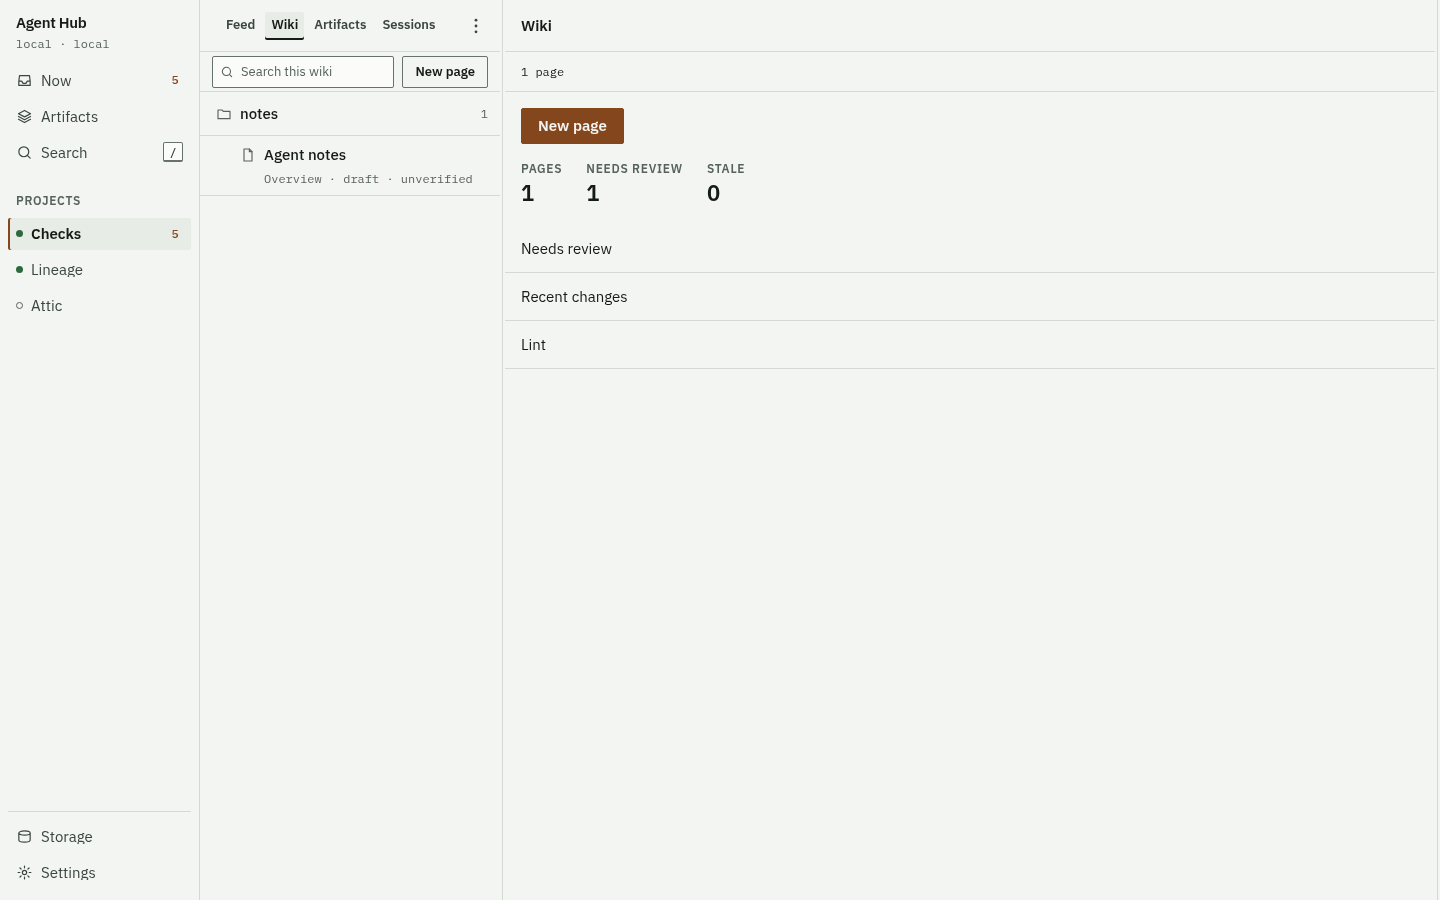
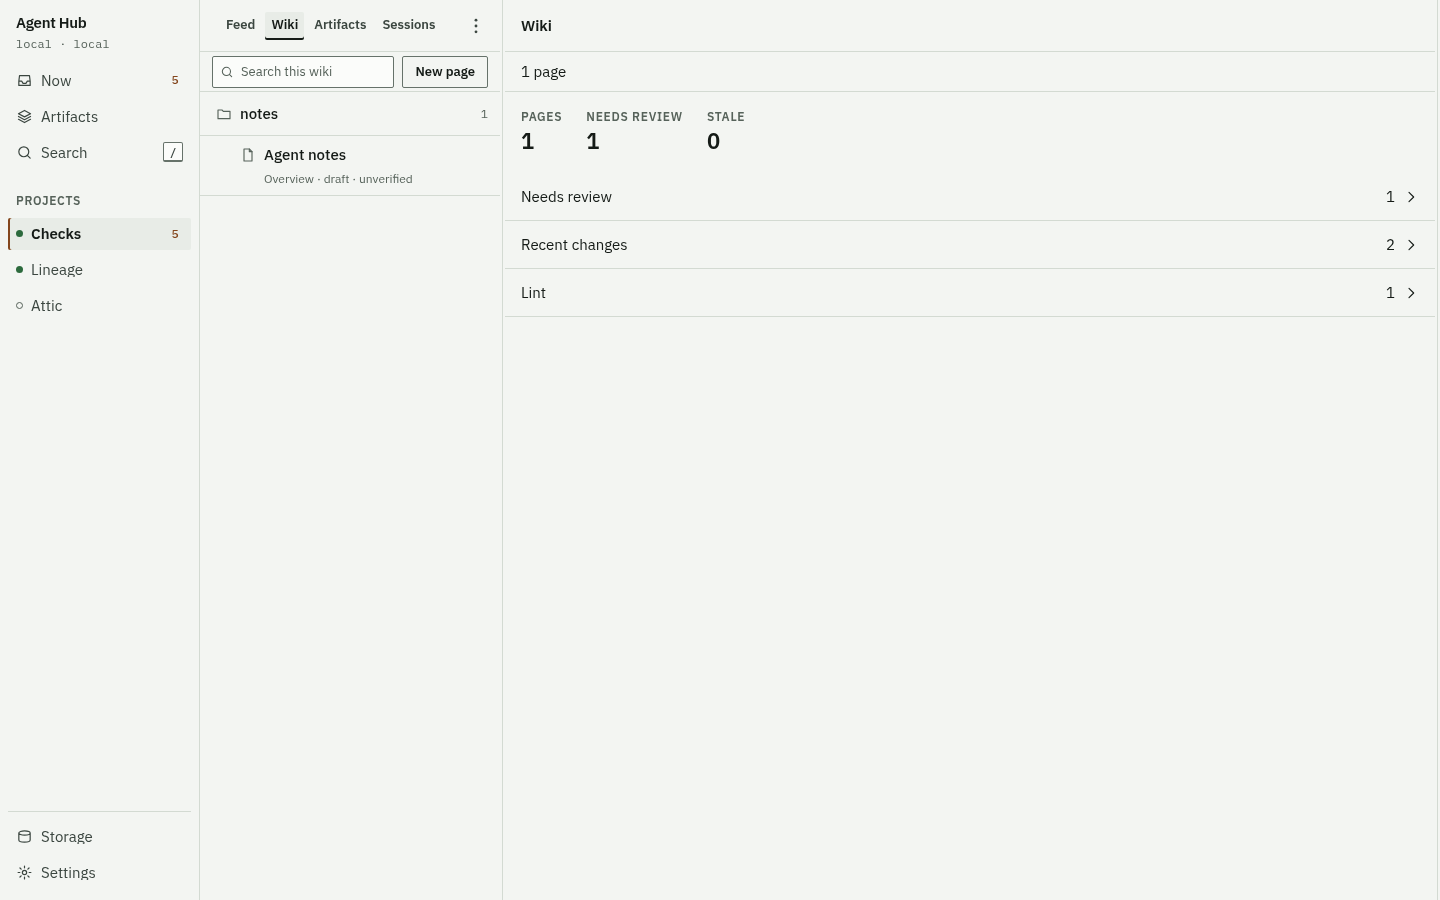
fix(web): make the wiki's empty state, header and editor honest
The empty wiki told agents to run a command that does not exist; it now
shows and copies the real kb put line for the project. On a phone the
Review and Edit verbs crowded the page title down to a fragment, so
they move to the control row, which is the tools row there. The home no
longer repeats the New page control the index already carries, and its
rows show a count and a chevron, or give way to a short note when the
wiki has no pages.

The editor is titled by the page rather than its file name, an emptied
buffer shows a placeholder, and a changed buffer is marked in the
control row. Save is held while the page is blank, with the reason on
the line under it, the same rule the composer follows.

Row and stage meta that are words (type, status, who and when, counts)
are set in the sans face, leaving mono to literal data.

Changed region(s): [[0.3438, 0.0622, 0.5, 0.3422], [0.1875, 0.1867, 0.3125, 0.2178], [0.4688, 0.1867, 0.5, 0.2178]]

diff --git a/web/app.css b/web/app.css
@@ -9094,6 +9094,17 @@ button.wiki-revert-btn {
 }
 .wiki-article { max-width: 640px; padding: var(--s-4); }
 .shell-controls.wiki-controls, button.wiki-editor-save, button.wiki-new-btn { padding: 0 var(--s-4); }
+.shell-controls .wiki-dirty { flex: none; }
+/* A blank page cannot be saved. Save stays focusable so the reason under it is
+   read with it, and it is drawn the way the composer's send is. */
+button.wiki-editor-save[aria-disabled="true"] {
+  background: var(--surface-2); color: var(--ink-3); border-color: var(--line); cursor: not-allowed;
+}
+button.wiki-editor-save[aria-disabled="true"]:active { transform: none; }
+/* The filter row's New page is the desktop's; a phone has it in the overflow. */
+@media (max-width: 1099px) {
+  button.project-wiki-new { display: none; }
+}
 .wiki-editor {
   display: flex;
   flex-direction: column;
@@ -9285,6 +9296,7 @@ button.wiki-forget-btn {
   text-decoration: none;
 }
 .wiki-home-new { padding: var(--s-4) var(--s-4) 0; }
+.wiki-home-tail { display: inline-flex; align-items: center; gap: var(--s-2); }
 .wiki-stats {
   padding: var(--s-4);
   display: flex;

diff --git a/docs/design/human-interface.md b/docs/design/human-interface.md
@@ -636,8 +636,8 @@ and its tab names the page count. The tree is one listing of the whole
 knowledge base, drawn as a full tree from 768px up and one drill-in level below
 that; inside a directory the drill-in level carries a breadcrumb, and at the
 root it carries none because the tools row above already names the section. A
-page row carries its title and a mono line of its type, status and derived
-trust, and a stale page adds the 12px clock glyph and the word "stale".
+page row carries its title and a line of its type, status and derived trust set
+in the sans face, since those are words and mono is for literal data, and a stale page adds the 12px clock glyph and the word "stale".
 Selecting a page opens the reader in the stage: the frontmatter block is
 metadata, drawn as the page's type, status and tags rather than as body text,
 and the page's backlinks and comment threads are listed under it.
@@ -648,7 +648,10 @@ The reader offers Review, which stamps the bytes the human read and carries the
 version they read, and Edit, whose Save carries the version token the read
 carried; a page that changed under the editor is refused rather than
 overwritten, and the refusal is said in place with Reload theirs and Keep mine.
-New page and Save to wiki are one sheet: a Location, a Title and a Description,
+In the editor a changed buffer is marked in the control row, and Save is held
+while the page is blank: it keeps its place in the tab order, reads as
+disabled, and the line under it gives the reason, the same rule the composer
+follows. A page is deleted by its own verb. New page and Save to wiki are one sheet: a Location, a Title and a Description,
 the file name computed from the title, and a note naming the type, status and
 source. New page writes a page that is not there yet; Save to wiki copies a
 session brain entry in and leaves the source where it was.
@@ -678,7 +681,10 @@ rows stay and focuses Cancel.
 ### Housekeeping
 
 The Wiki home carries the page, needs-review and stale counts and holds Recent
-changes and Lint, each a housekeeping screen reached from a well-known path. The
+changes and Lint, each a housekeeping screen reached from a well-known path.
+With no pages it shows a short note, and Recent changes stays while the history
+has rows. New page is one control at each width: in the index's filter row on a
+desktop, in the tools row's overflow on a phone. The
 routes and refusals are in
 [knowledge base pages](/reference/knowledge-base-pages.md).
 

diff --git a/docs/guides/human/knowledge-base.md b/docs/guides/human/knowledge-base.md
@@ -24,7 +24,7 @@ tools are in [MCP tools](/reference/mcp-tools.md).
 
 The tree is the whole knowledge base in one listing, drawn as a full tree on a
 desktop and one drill-in level on a phone. A page row carries its title and a
-mono line of its type, status, and derived trust; a stale page adds the word
+line of its type, status, and derived trust; a stale page adds the word
 "stale", and a directory row carries its child count. Selecting a page renders
 it: the frontmatter block is metadata, shown as the page's type, status, and
 tags rather than as body text, and the backlinks are listed under it.
@@ -56,7 +56,14 @@ page.
 **Edit** opens the editor, whose Save carries the version token the read
 carried. A page that changed under the editor is refused rather than
 overwritten, and the refusal is shown in place with **Reload theirs** and
-**Keep mine**. **New page** writes a page that is not there yet.
+**Keep mine**. **Reload theirs** takes the hub's copy as the new starting
+point, so the editor reads as unchanged again. **New page** writes a page that
+is not there yet.
+
+A changed buffer is marked "Unsaved changes" in the control row. Save is held
+while the page is blank: it stays focusable, reads as disabled, and the line
+under it says why. A page is deleted from its own verb, never by saving it
+empty.
 
 ## History, revert, and restore
 
@@ -84,7 +91,10 @@ it came from and leaves the source where it was. An agent does the same with the
 
 ## Housekeeping
 
-The Wiki home carries the page, needs-review, and stale counts, and holds:
+The Wiki home carries the page, needs-review, and stale counts, and holds the
+rows below. A wiki with no pages shows a short note instead of the counts, and
+keeps Recent changes for as long as the history has rows, so a page deleted
+by mistake can still be restored from there.
 
 - **Recent changes**, which reads who did what to which page and when, grouped
   by day, with rows that open that page's history;

diff --git a/docs/log.md b/docs/log.md
@@ -6,6 +6,14 @@ software release notes and the repository changelog.
 
 ## 2026-11-22
 
+### The wiki says what is true
+
+* **Update**: [Human interface](/design/human-interface.md) and the
+  [knowledge base guide](/guides/human/knowledge-base.md) say the editor marks
+  unsaved changes and holds Save while a page is blank, that Reload theirs
+  resets the starting point, that the Wiki home keeps Recent changes while
+  history exists, and that row metadata is sans, not mono.
+
 ### The Artifacts list folds extra projects into a menu
 
 * **Update**: [Human interface](/design/human-interface.md) says that on a wide
